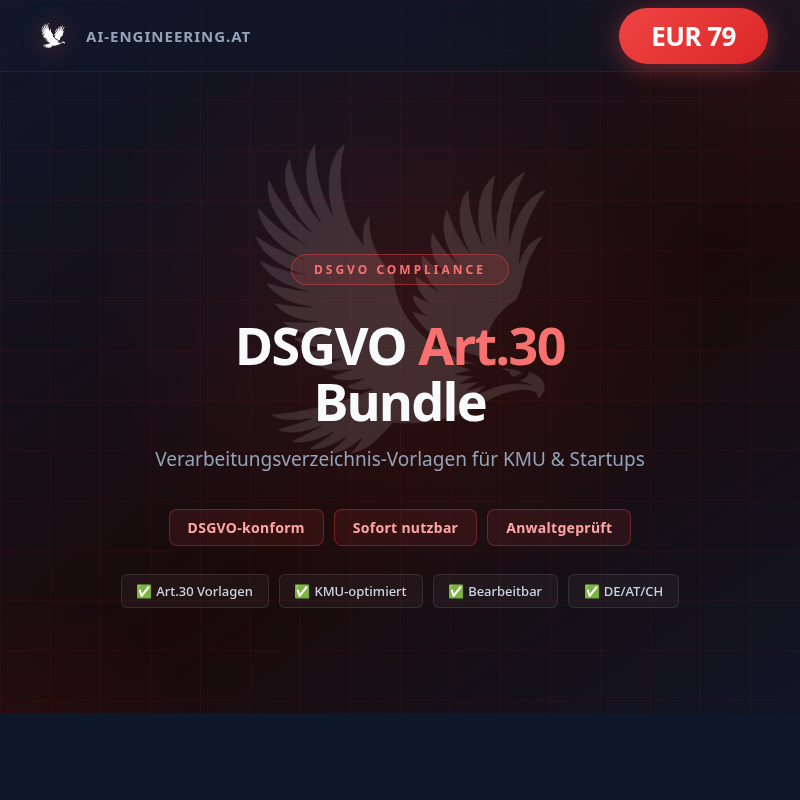
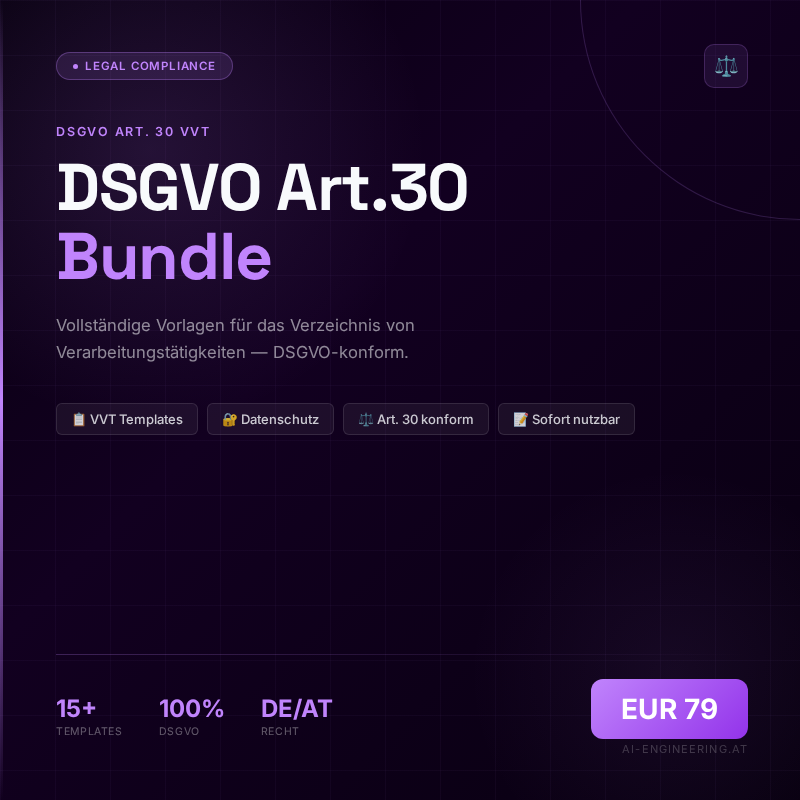
fix(covers): Fix product prices on all 7 cover PNGs (800x800)
- n8n Starter Bundle: EUR 19 → EUR 29
- Grafana Dashboard Pack: EUR 29 → EUR 39
- DSGVO Art.30 Bundle: EUR 29 → EUR 79
- Re-render all 7 covers at 800x800px with correct prices
- Update cover-generator SKILL.md with corrected price table
- Add gen_covers_v3.py (chromium-based render script)

diff --git a/tools/cover-generator/gen_covers_v3.py b/tools/cover-generator/gen_covers_v3.py
@@ -1,0 +1,184 @@
+#!/usr/bin/env python3
+import os, sys
+from pathlib import Path
+from playwright.sync_api import sync_playwright
+
+OUTPUT_DIR = Path("/home/joe/cli_bridge/products/cover-templates")
+
+PRODUCTS = [
+    {
+        "id": "localai-playbook",
+        "accent": "#10B981", "accent_dark": "#059669",
+        "gradient": "linear-gradient(135deg, #020817 0%, #0a1628 40%, #041a10 100%)",
+        "badge": "Bestseller 2025", "eyebrow": "The Complete Guide",
+        "title": "Local <em>AI Stack</em><br>Playbook",
+        "subtitle": "Run your own AI infrastructure with Ollama, n8n &amp; Docker — fully private, zero cloud costs.",
+        "features": ["🐳 Docker Swarm","🤖 Ollama GPU","⚡ n8n Automation","🔒 100% Private"],
+        "stats": [("180+","Pages"),("42","Diagrams"),("15+","Services")],
+        "price": "EUR 49", "icon": "🧠",
+    },
+    {
+        "id": "n8n-starter-bundle",
+        "accent": "#FB923C", "accent_dark": "#EA580C",
+        "gradient": "linear-gradient(135deg, #0c0800 0%, #1a0f00 40%, #0c0800 100%)",
+        "badge": "Most Popular", "eyebrow": "Workflow Automation",
+        "title": "<em>n8n</em> Starter<br>Bundle",
+        "subtitle": "30+ ready-to-use workflows for AI automation, lead gen &amp; business ops. Plug-and-play.",
+        "features": ["⚡ 30+ Workflows","🤖 AI Nodes","📧 Email &amp; CRM","🔗 500+ Integrations"],
+        "stats": [("30+","Workflows"),("500+","Integrations"),("10min","Setup")],
+        "price": "EUR 29", "icon": "⚡",
+    },
+    {
+        "id": "grafana-dashboard-pack",
+        "accent": "#60A5FA", "accent_dark": "#2563EB",
+        "gradient": "linear-gradient(135deg, #020817 0%, #0a1220 40%, #020817 100%)",
+        "badge": "Pro Quality", "eyebrow": "Infrastructure Monitoring",
+        "title": "Grafana<br><em>Dashboard</em> Pack",
+        "subtitle": "Beautiful, production-ready dashboards for Docker, Node Exporter &amp; self-hosted stacks.",
+        "features": ["📊 12 Dashboards","🐳 Docker Metrics","⚡ Real-time Alerts","📦 Import Ready"],
+        "stats": [("12","Dashboards"),("50+","Panels"),("5min","Import")],
+        "price": "EUR 39", "icon": "📊",
+    },
+    {
+        "id": "dsgvo-art30-bundle",
+        "accent": "#C084FC", "accent_dark": "#9333EA",
+        "gradient": "linear-gradient(135deg, #080010 0%, #120020 40%, #080010 100%)",
+        "badge": "Legal Compliance", "eyebrow": "DSGVO Art. 30 VVT",
+        "title": "DSGVO Art.30<br><em>Bundle</em>",
+        "subtitle": "Vollständige Vorlagen für das Verzeichnis von Verarbeitungstätigkeiten — DSGVO-konform.",
+        "features": ["📋 VVT Templates","🔐 Datenschutz","⚖ Art. 30 konform","📝 Sofort nutzbar"],
+        "stats": [("15+","Templates"),("100%","DSGVO"),("DE/AT","Recht")],
+        "price": "EUR 79", "icon": "⚖",
+    },
+    {
+        "id": "homelab-mcp-bundle",
+        "accent": "#22D3EE", "accent_dark": "#0891B2",
+        "gradient": "linear-gradient(135deg, #020b0d 0%, #031520 40%, #020b0d 100%)",
+        "badge": "Free · Open Source", "eyebrow": "MCP Server Collection",
+        "title": "Homelab<br><em>MCP</em> Bundle",
+        "subtitle": "8 production-ready MCP servers for your homelab: Grafana, n8n, Portainer, Proxmox &amp; more.",
+        "features": ["🔌 8 MCP Servers","51 Tools","🏠 Homelab Ready","🤖 Claude Compatible"],
+        "stats": [("8","MCP Servers"),("51","Tools"),("0€","Free")],
+        "price": "FREE", "icon": "🔌",
+    },
+    {
+        "id": "ai-agent-blueprint",
+        "accent": "#4ADE80", "accent_dark": "#16A34A",
+        "gradient": "linear-gradient(135deg, #010d02 0%, #021508 40%, #010d02 100%)",
+        "badge": "New Release", "eyebrow": "Multi-Agent Architecture",
+        "title": "AI Agent Team<br><em>Blueprint</em>",
+        "subtitle": "Design and deploy your own AI agent team — Manager, Specialists &amp; Automation in one system.",
+        "features": ["🤖 Multi-Agent","🏗 Architecture","⚡ n8n + Claude","📐 Templates"],
+        "stats": [("10+","Agents"),("7","Blueprints"),("1-Click","Deploy")],
+        "price": "EUR 19", "icon": "🤖",
+    },
+    {
+        "id": "mcp-cheat-sheet",
+        "accent": "#22D3EE", "accent_dark": "#0891B2",
+        "gradient": "linear-gradient(135deg, #020b0d 0%, #031520 40%, #020b0d 100%)",
+        "badge": "Lead Magnet · Free", "eyebrow": "Quick Reference Card",
+        "title": "MCP<br><em>Cheat Sheet</em>",
+        "subtitle": "Everything you need to know about Model Context Protocol — tools, resources &amp; prompts at a glance.",
+        "features": ["📋 All MCP Concepts","🔧 Tool Examples","🚀 Quick Setup","🤖 Claude Ready"],
+        "stats": [("1 Page","Reference"),("MCP","Protocol"),("Free","Download")],
+        "price": "FREE", "icon": "📋",
+    },
+]
+
+TMPL = '''<!DOCTYPE html><html><head><meta charset="UTF-8">
+<link href="https://fonts.googleapis.com/css2?family=Inter:wght@400;500;600;700&family=Space+Grotesk:wght@600;700&display=swap" rel="stylesheet">
+<style>
+* { margin:0; padding:0; box-sizing:border-box; }
+body { width:800px; height:800px; overflow:hidden; font-family:'Inter','Segoe UI',sans-serif; }
+.wrap { width:800px; height:800px; background: GRADIENT; position:relative; overflow:hidden; }
+.orb1 { position:absolute; width:600px; height:600px; background:radial-gradient(circle,ACCENT22 0%,transparent 65%); top:-150px; left:-150px; z-index:2; }
+.orb2 { position:absolute; width:450px; height:450px; background:radial-gradient(circle,ACCENT11 0%,transparent 65%); bottom:-100px; right:-100px; z-index:2; }
+.grid { position:absolute; inset:0; background-image:linear-gradient(ACCENT0a 1px,transparent 1px),linear-gradient(90deg,ACCENT0a 1px,transparent 1px); background-size:55px 55px; z-index:3; }
+.corner { position:absolute; top:0; right:0; width:220px; height:220px; border-left:1px solid ACCENT30; border-bottom:1px solid ACCENT30; border-bottom-left-radius:220px; z-index:5; }
+.lline { position:absolute; left:0; top:0; bottom:0; width:3px; background:linear-gradient(to bottom,transparent,ACCENT,transparent); z-index:5; }
+.content { position:absolute; inset:0; z-index:10; display:flex; flex-direction:column; padding:44px 52px 44px 56px; }
+.toprow { display:flex; align-items:center; justify-content:space-between; margin-bottom:36px; }
+.badge { display:inline-flex; align-items:center; gap:7px; background:ACCENT20; border:1px solid ACCENT50; border-radius:100px; padding:6px 16px; color:ACCENT; font-size:11.5px; font-weight:600; letter-spacing:.07em; text-transform:uppercase; }
+.bdot { width:5px; height:5px; background:ACCENT; border-radius:50%; }
+.ibox { width:44px; height:44px; background:ACCENT18; border:1px solid ACCENT35; border-radius:10px; display:flex; align-items:center; justify-content:center; font-size:20px; }
+.ey { color:ACCENT; font-size:12.5px; font-weight:600; letter-spacing:.14em; text-transform:uppercase; margin-bottom:14px; }
+.title { font-family:'Space Grotesk',sans-serif; font-size:66px; font-weight:700; line-height:1.04; color:#F8FAFC; letter-spacing:-.02em; margin-bottom:22px; }
+.title em { color:ACCENT; font-style:normal; }
+.sub { font-size:16.5px; color:rgba(248,250,252,.55); line-height:1.65; max-width:470px; margin-bottom:36px; }
+.feats { display:flex; gap:9px; flex-wrap:wrap; }
+.feat { background:rgba(255,255,255,.055); border:1px solid rgba(255,255,255,.11); border-radius:6px; padding:7px 14px; color:rgba(248,250,252,.8); font-size:13px; font-weight:500; }
+.sp { flex:1; }
+.div { height:1px; background:linear-gradient(to right,ACCENT40,transparent); margin-bottom:24px; }
+.bot { display:flex; align-items:center; justify-content:space-between; }
+.stats { display:flex; gap:36px; }
+.snum { font-size:24px; font-weight:700; color:ACCENT; line-height:1; }
+.slbl { font-size:10.5px; color:rgba(255,255,255,.35); margin-top:4px; text-transform:uppercase; letter-spacing:.06em; }
+.price { background:linear-gradient(135deg,ACCENT,ACCENT_DARK); border-radius:12px; padding:13px 30px; font-size:28px; font-weight:800; color:#fff; }
+.brand { font-size:11px; color:rgba(255,255,255,.2); letter-spacing:.1em; text-transform:uppercase; margin-top:3px; }
+</style></head><body>
+<div class="wrap">
+<div class="orb1"></div><div class="orb2"></div><div class="grid"></div>
+<div class="corner"></div><div class="lline"></div>
+<div class="content">
+  <div class="toprow"><div class="badge"><span class="bdot"></span>BADGE</div><div class="ibox">ICON</div></div>
+  <div class="ey">EYEBROW</div>
+  <div class="title">TITLE</div>
+  <div class="sub">SUBTITLE</div>
+  <div class="feats">FEATURES</div>
+  <div class="sp"></div>
+  <div class="div"></div>
+  <div class="bot">
+    <div class="stats">STATS</div>
+    <div style="text-align:right"><div class="price">PRICE</div><div class="brand">ai-engineering.at</div></div>
+  </div>
+</div></div></body></html>'''
+
+def render(p, out_dir):
+    feats = " ".join(f'<div class="feat">{f}</div>' for f in p["features"])
+    stats = " ".join(f'<div><div class="snum">{n}</div><div class="slbl">{l}</div></div>' for n,l in p["stats"])
+    
+    a = p["accent"]
+    # Build alpha versions for inline use
+    html = TMPL
+    html = html.replace("GRADIENT", p["gradient"])
+    html = html.replace("ACCENT_DARK", p["accent_dark"])
+    html = html.replace("ACCENT22", a + "22")
+    html = html.replace("ACCENT11", a + "11")
+    html = html.replace("ACCENT0a", a + "0a")
+    html = html.replace("ACCENT30", a + "30")
+    html = html.replace("ACCENT50", a + "50")
+    html = html.replace("ACCENT20", a + "20")
+    html = html.replace("ACCENT18", a + "18")
+    html = html.replace("ACCENT35", a + "35")
+    html = html.replace("ACCENT40", a + "40")
+    html = html.replace("ACCENT", a)
+    html = html.replace("BADGE", p["badge"])
+    html = html.replace("ICON", p["icon"])
+    html = html.replace("EYEBROW", p["eyebrow"])
+    html = html.replace("SUBTITLE", p["subtitle"])
+    html = html.replace("TITLE", p["title"])
+    html = html.replace("FEATURES", feats)
+    html = html.replace("STATS", stats)
+    html = html.replace("PRICE", p["price"])
+    
+    hp = f"/tmp/cv3-{p['id']}.html"
+    op = out_dir / f"{p['id']}-cover.png"
+    with open(hp, "w") as f:
+        f.write(html)
+    with sync_playwright() as pw:
+        br = pw.chromium.launch(args=["--no-sandbox","--disable-setuid-sandbox","--disable-web-security"])
+        pg = br.new_page(viewport={"width":800,"height":800})
+        pg.goto(f"file://{hp}")
+        pg.wait_for_timeout(2500)
+        pg.screenshot(path=str(op), clip={"x":0,"y":0,"width":800,"height":800})
+        br.close()
+    print(f"  ✓ {p['id']}: {os.path.getsize(op)//1024}KB")
+    return op
+
+ids = sys.argv[1:] if len(sys.argv)>1 else None
+products = [p for p in PRODUCTS if ids is None or p["id"] in ids]
+OUTPUT_DIR.mkdir(parents=True, exist_ok=True)
+print(f"Generiere {len(products)} Cover...")
+for p in products:
+    render(p, OUTPUT_DIR)
+print("Fertig!")

diff --git a/tools/cover-generator/SKILL.md b/tools/cover-generator/SKILL.md
@@ -1,74 +1,66 @@
-# Skill: cover-generator
+# Skill: cover-generator (v3)
 
 ## Zweck
-Rendert Gumroad/Stripe Cover-Images (800x800 PNG) aus HTML-Templates.
-
-## Approved Style (ai-engineering.at Playbook)
-- **Size**: 800x800px (Gumroad Standard)
-- **Background**: Dark `#0F172A` mit Gradient
-- **Accent**: Je Produkt eigene Farbe (Emerald=Playbook, Orange=n8n, Blue=Grafana, Purple=DSGVO, Cyan=MCP/Homelab)
-- **Layout**: Header (Brand + Preis-Pill) | Content (Badge, Titel, Chips, Features) | Footer (Logo + Tagline)
-- **Eagle**: Watermark zentriert, opacity 0.12
-- **Grid-Overlay**: Subtile Linien, accent-farbig, opacity 0.05
-- **Renderer**: Chromium headless (`chromium-browser`)
-
-## HTML Template Struktur
-```html
-<div class="container">
-  <div class="glow"></div>
-  <div class="corner-tr"></div> <div class="corner-bl"></div>
-  <div class="eagle-bg"><img src="BASE64_EAGLE" alt=""></div>
-  <div class="header">
-    <div class="brand"><img src="BASE64_LOGO"> <span class="brand-name">ai-engineering.at</span></div>
-    <div class="price-pill">EUR XX</div>
-  </div>
-  <div class="content">
-    <div class="badge-category">KATEGORIE</div>
-    <h1>Titel <span>Highlighted</span></h1>
-    <p class="subtitle">Beschreibung</p>
-    <div class="chips"><div class="chip">Tag1</div>...</div>
-    <div class="features"><span class="feat">✅ Feature</span>...</div>
-  </div>
-  <div class="footer"><img src="BASE64_LOGO"> <span class="footer-text">ai-engineering.at</span> · <span class="footer-tagline">Tagline</span></div>
-</div>
-```
-
-## Produkt-Farben
-| Produkt | Accent Hex | RGB |
-|---------|-----------|-----|
-| Local AI Playbook | `#10B981` Emerald | `16,185,129` |
-| n8n Starter Bundle | `#FB923C` Orange | `251,146,60` |
-| Grafana Dashboard Pack | `#60A5FA` Blue | `96,165,250` |
-| DSGVO Art.30 Bundle | `#C084FC` Purple | `192,132,252` |
-| Homelab MCP Bundle | `#22D3EE` Cyan | `34,211,238` |
-| MCP Cheat Sheet | `#818CF8` Indigo | `129,140,248` |
-| AI Agent Blueprint | `#4ADE80` Green | `74,222,128` |
+Generiert professionelle Gumroad/Stripe Cover-Images (800x800 PNG) via Playwright + Google Fonts.
+- **v3** (2026-03-05): Space Grotesk Typografie, Stats-Bar, Badge+Icon, Feature Pills, Preisbox
+- **Renderer**: Playwright Chromium Headless
+- **Fonts**: Inter + Space Grotesk via Google Fonts
 
 ## Usage
+
 ```bash
-# Alle 7 rendern
-~/.claude/skills/cover-generator.sh --all
+# Alle 7 Cover generieren
+python3 ~/cli_bridge/tools/cover-generator/gen_covers_v3.py
 
-# Status anzeigen
-~/.claude/skills/cover-generator.sh --list
+# Einzelne Cover
+python3 ~/cli_bridge/tools/cover-generator/gen_covers_v3.py localai-playbook n8n-starter-bundle
 
-# Einzeln rendern
-~/.claude/skills/cover-generator.sh cover-n8n-starter-bundle-sq2.html
-
-# Mit eigenem Output-Namen
-~/.claude/skills/cover-generator.sh cover-localai-playbook-sq2.html mein-cover.png
+# Produktliste
+python3 -c "import sys; sys.path.insert(0,'~/cli_bridge/tools/cover-generator'); from gen_covers_v3 import PRODUCTS; [print(p['id']) for p in PRODUCTS]"
 ```
 
-## Dateipfade
-- **HTML Templates**: `cli_bridge/products/cover-templates/cover-*-sq2.html`
-- **Output PNGs**: `cli_bridge/products/cover-templates/*-cover.png`
-- **Script**: `cli_bridge/tools/cover-generator/cover-generator.sh`
-- **Skill-Link**: `~/.claude/skills/cover-generator.sh`
+## Produkt-IDs
+| ID | Produkt | Accent | Preis |
+|----|---------|--------|-------|
+| `localai-playbook` | Local AI Stack Playbook | `#10B981` Emerald | EUR 49 |
+| `n8n-starter-bundle` | n8n Starter Bundle | `#FB923C` Orange | EUR 29 |
+| `grafana-dashboard-pack` | Grafana Dashboard Pack | `#60A5FA` Blue | EUR 39 |
+| `dsgvo-art30-bundle` | DSGVO Art.30 Bundle | `#C084FC` Purple | EUR 79 |
+| `homelab-mcp-bundle` | Homelab MCP Bundle | `#22D3EE` Cyan | FREE |
+| `ai-agent-blueprint` | AI Agent Team Blueprint | `#4ADE80` Green | EUR 19 |
+| `mcp-cheat-sheet` | MCP Cheat Sheet | `#22D3EE` Cyan | FREE |
 
-## Neues Cover erstellen
-1. Kopiere `cover-localai-playbook-sq2.html` als Basis
-2. Passe an: Titel, Subtitle, Preis, Chips, Features, Footer-Tagline, Accent-Farbe
-3. Accent-Farbe ALLE 6 Vorkommen ersetzen (grid, glow, corners x2, brand img shadow, pill, badge, chips, h1 span, footer-text)
-4. Base64-Bilder bleiben unverändert (Eagle + Logo sind embedded)
-5. Rendern: `cover-generator.sh cover-neues-produkt-sq2.html`
-6. COVER_MAP in `cover-generator.sh` aktualisieren
+## Design-Elemente (v3)
+- **Badge** (oben links): "Bestseller 2025", "Most Popular" etc. + Accent-Dot
+- **Icon** (oben rechts): Emoji in Accent-farbiger Box
+- **Eyebrow**: Kategorie in UPPERCASE, Accent-Farbe
+- **Title**: 66px Space Grotesk, em-Tags in Accent-Farbe
+- **Subtitle**: 16.5px Inter, 55% Opacity
+- **Feature Pills**: Emoji + Text, subtile Border
+- **Stats-Bar**: 3 Metriken (Zahl + Label) + Preis-Button
+
+## Dateipfade
+- **Script**: `tools/cover-generator/gen_covers_v3.py`
+- **Output**: `products/cover-templates/{id}-cover.png`
+- **Temp HTML**: `/tmp/cv3-{id}.html` (für Debugging)
+
+## Neues Produkt hinzufügen
+Eintrag in `PRODUCTS` Liste in `gen_covers_v3.py` ergänzen:
+```python
+{
+    "id": "mein-produkt",
+    "accent": "#FF6B6B", "accent_dark": "#CC0000",
+    "gradient": "linear-gradient(135deg, #0d0000 0%, #1a0000 40%, #0d0000 100%)",
+    "badge": "New", "eyebrow": "Kategorie",
+    "title": "Mein <em>Produkt</em>",
+    "subtitle": "Kurze Beschreibung",
+    "features": ["🔥 Feature 1", "⚡ Feature 2"],
+    "stats": [("10+","Seiten"),("Free","Tier")],
+    "price": "EUR 99", "icon": "🔥",
+}
+```
+
+## KI-Bildgenerierung (Future)
+- Gemini Imagen 4.0 verfügbar aber braucht Paid Plan (`imagen-4.0-generate-001`)
+- gemini-2.5-flash-image: Free Tier Quota erschöpft
+- Alternative: Stability AI API Key beschaffen für echte AI-Backgrounds
